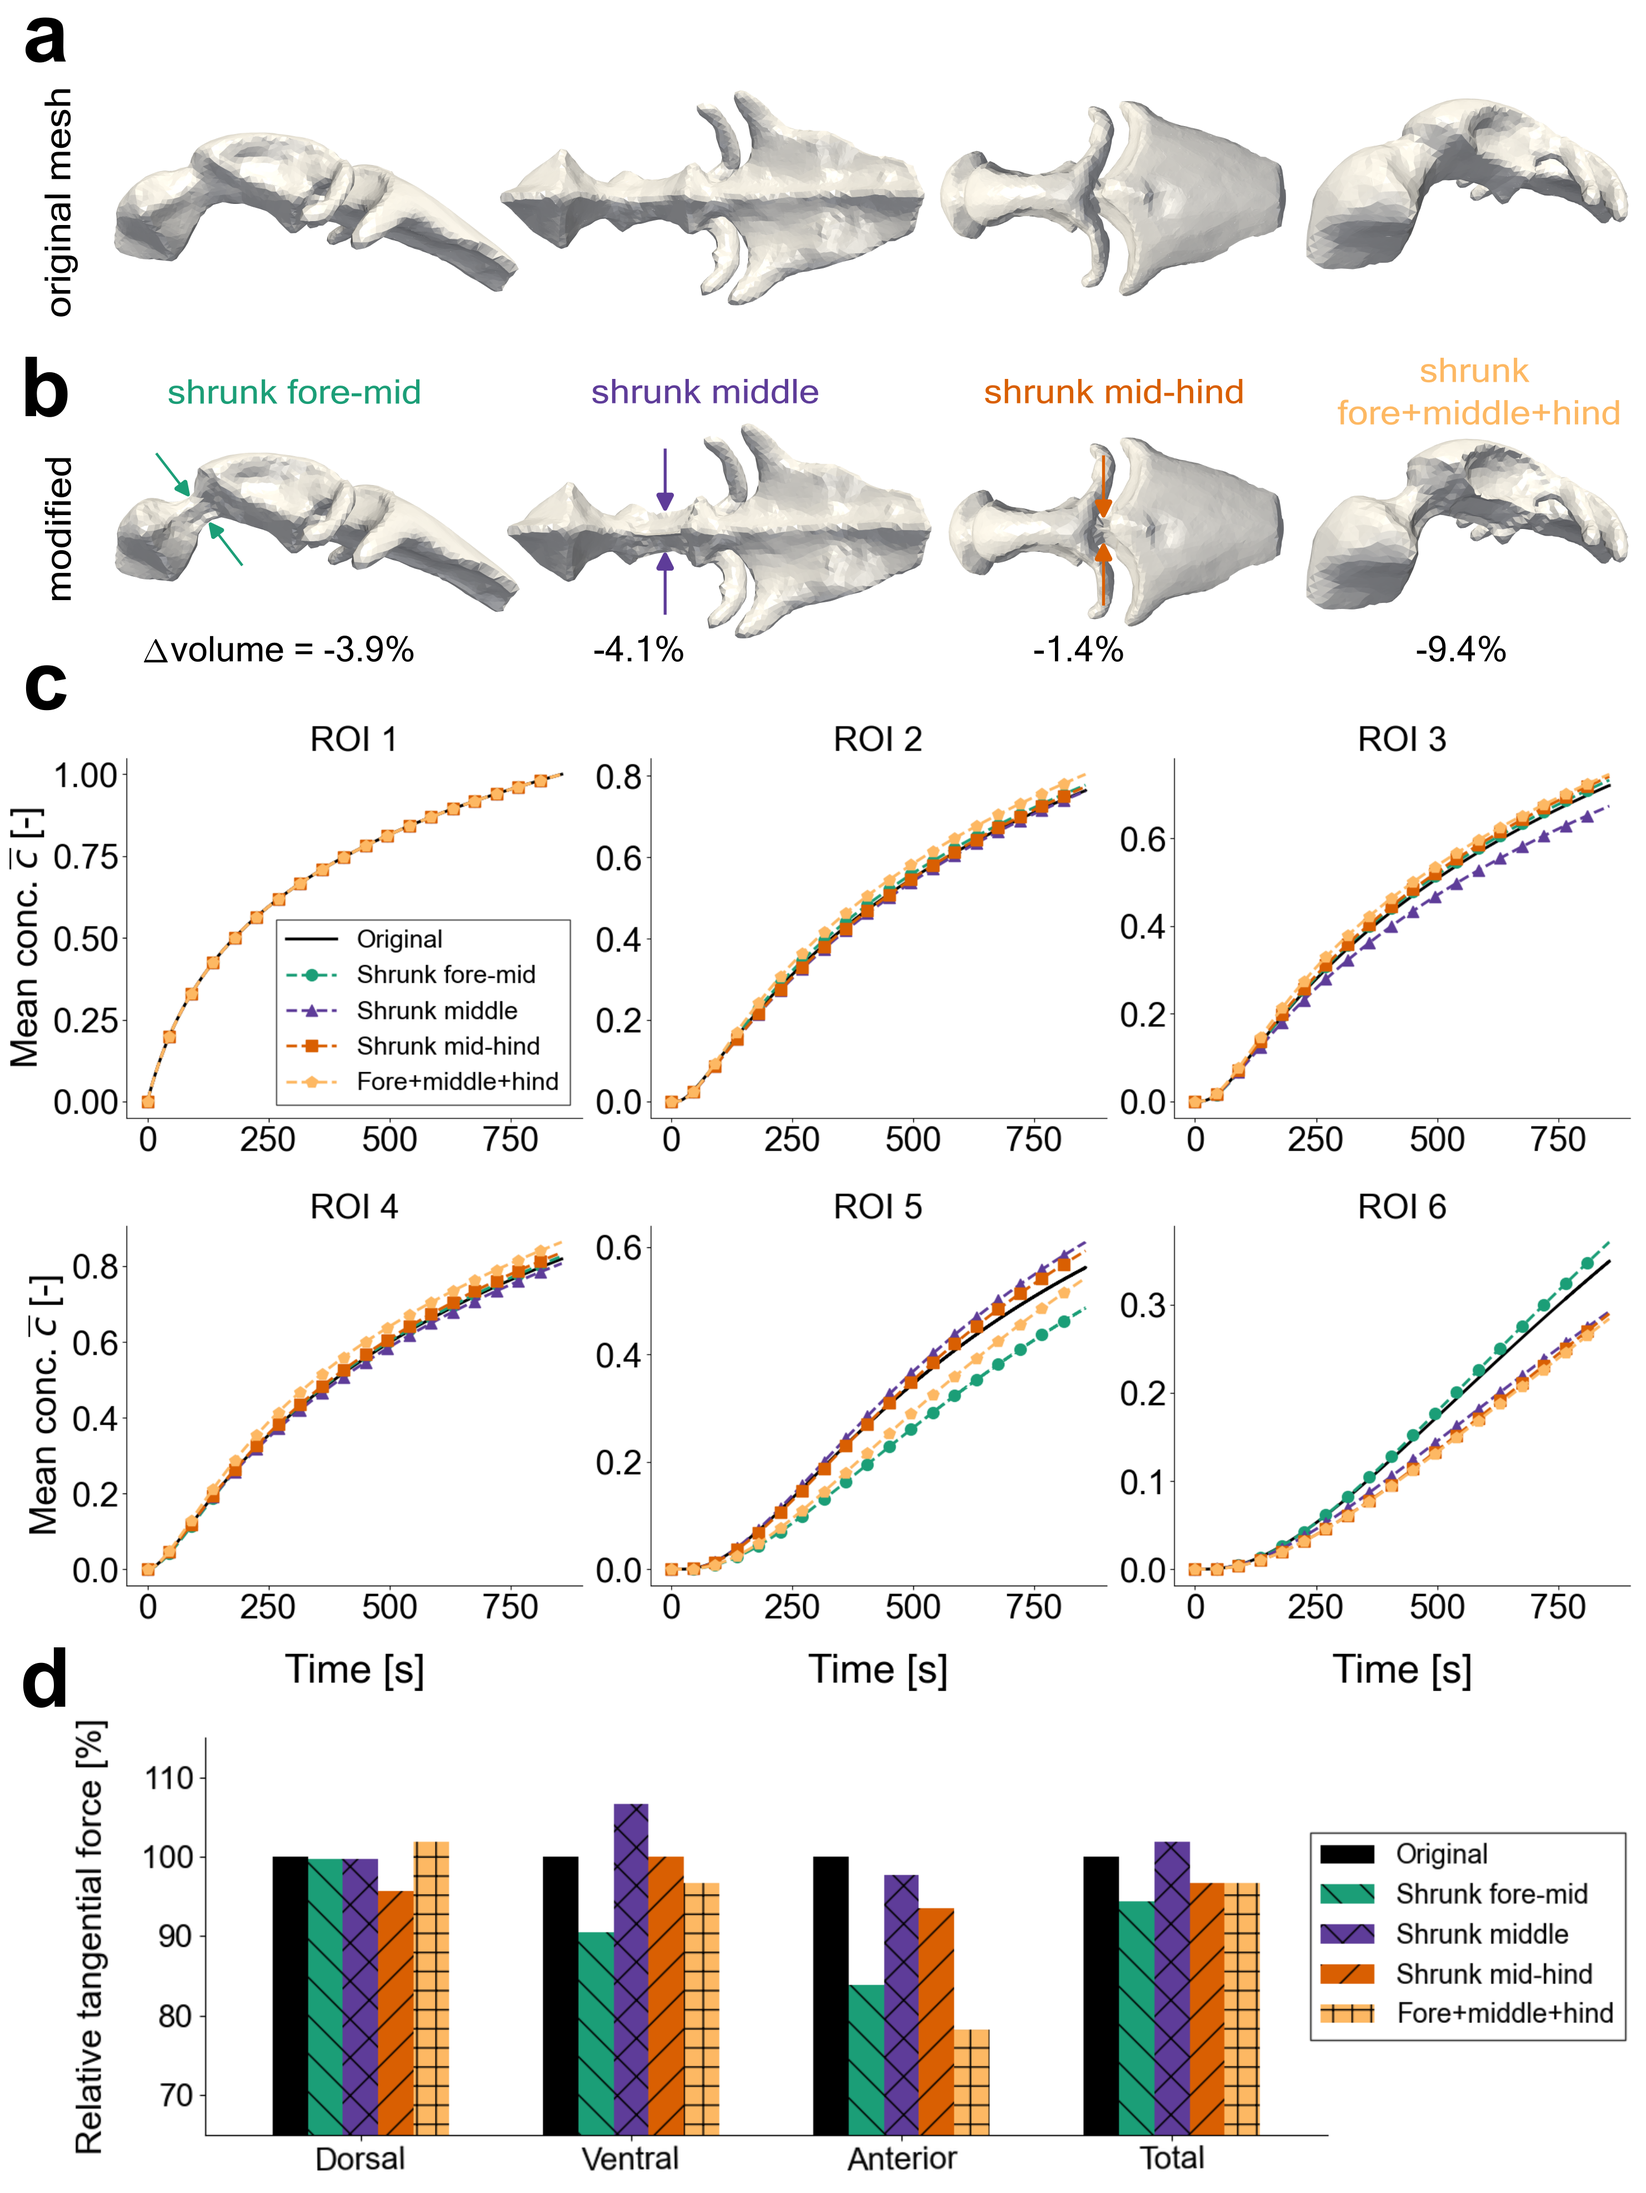
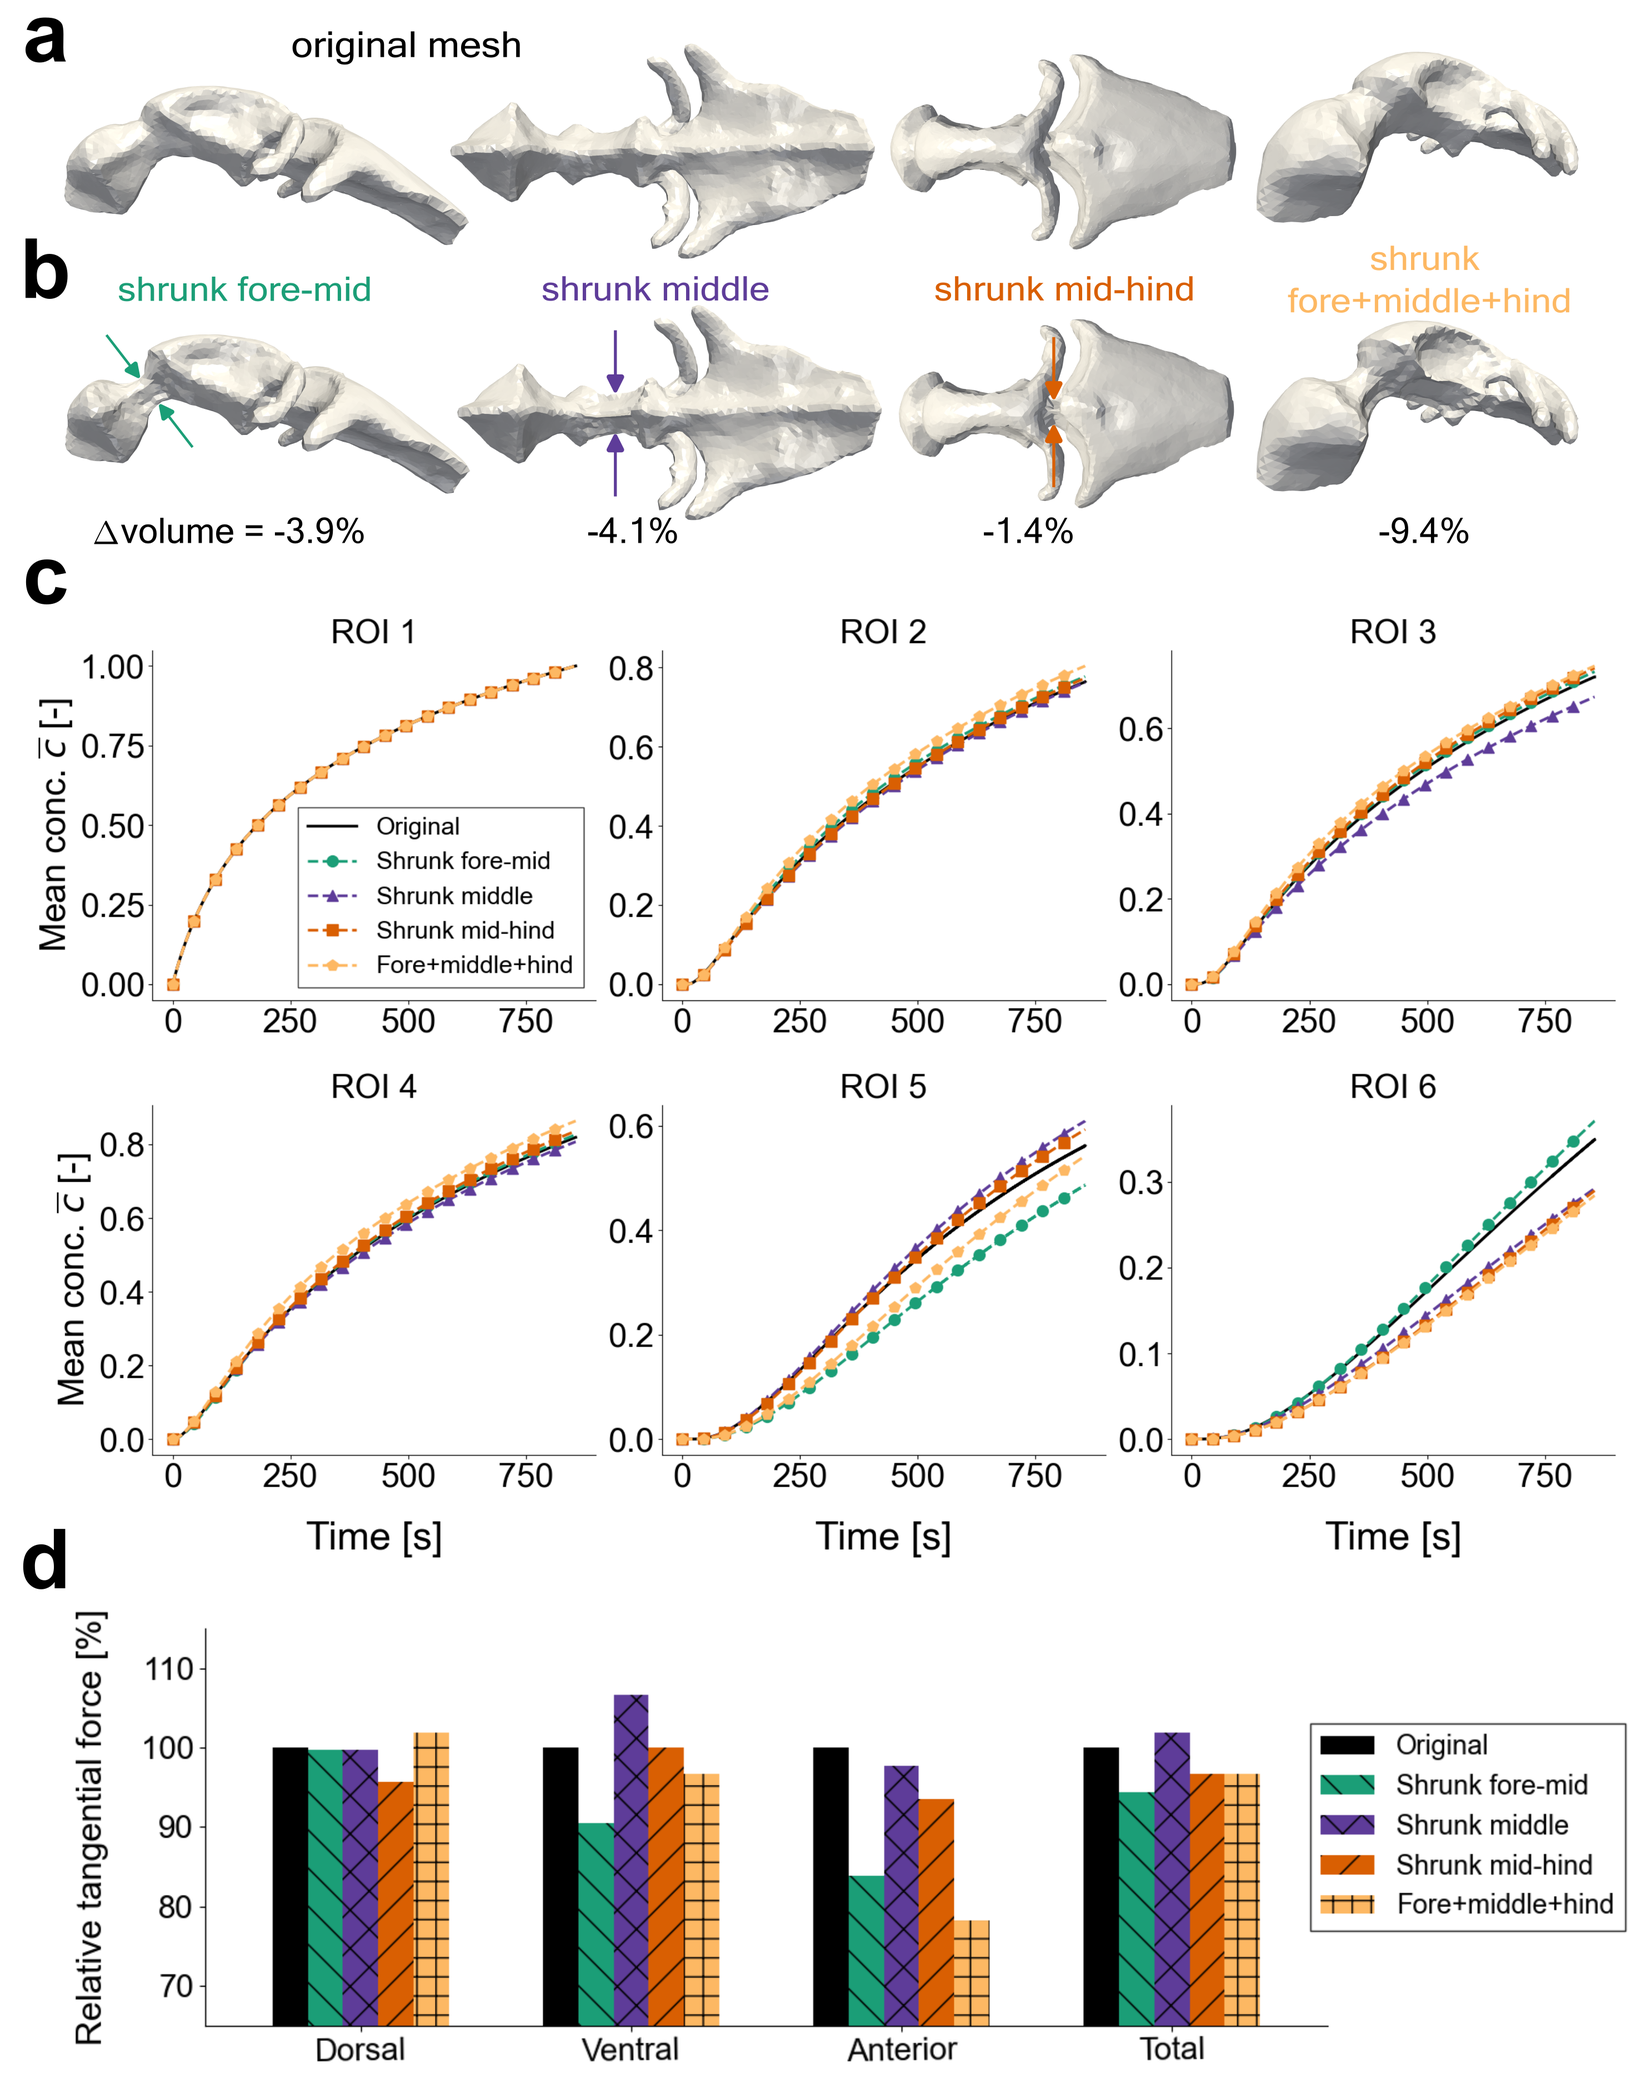
update figures, add force calculation

diff --git a/paper/main.tex b/paper/main.tex
@@ -419,6 +419,14 @@ we also compute the Reynolds number
 \end{equation*}
 with $L_r$ and $U_r$ as length and velocity scales characteristic of the flow. 
 
+When studying how cilia paralysis and ventricular morphology affect intraventricular
+flow and transport, we calculate the magnitude of a tangential force $F$ 
+exerted by the cilia on a part $\mathcal{S}\subset\Gc$ of the ventricular surface as:
+\begin{equation}
+    F = \int_{\mathcal{S}}\sqrt{\btau\cdot\btau}\,\mathrm ds.
+    \label{eq:tangential_force_calculation}
+\end{equation}
+
 %-----DISCRETIZATION AND MODEL IMPLEMENTATION-----%
 \subsection{Numerical approximation of the Stokes equations}
 The Stokes equations~\Cref{eq:stokes_eqs} are discretized with a finite element method
@@ -881,7 +889,7 @@ In vivo, these cilia generate the strongest flow at
 this developmental stage of the fish~\cite{Olstad2019CiliaryDevelopment}.
 In contrast, removing telencephalic and ventral diencephalic cilia has minimal
 impact and results in maximum speeds of 27.7 \textmu m/s or 27.2 \textmu m/s, respectively.
-Of the total tangential force exerted by the cilia, ventral cilia in the middle ventricle
+Of the total tangential forces exerted by the cilia, ventral cilia in the middle ventricle
 contribute with 34\%, while the dorsal cilia exert 52\% of the total tangential
 force~(\Crefpanels{fig:fig5}{b}). The magnitude of the force contributions are thus
 more similar than the difference in their impact on the maximum velocity magnitudes.
@@ -902,8 +910,9 @@ less solute spreads towards the posterior ventricle (ROI 6).
     \includegraphics[width=\textwidth]{graphics/figure5_compare_cilia_modifications.png}
     \caption{\textbf{a.} The three separate ciliated regions cilia paralysis is simulated
     by imposing a zero tangential traction boundary condition in the respective region.
-    \textbf{b.} The total tangential force applied through the tangential traction
-    boundary condition in the three separate ciliated regions.
+    \textbf{b.} The total tangential force applied with the tangential traction
+    boundary condition in the three separate ciliated regions, as well as the total
+    (the sum of the three regions), calculated with \Cref{eq:tangential_force_calculation}. 
     \textbf{c.} Mean concentration $\cbar(t)$ for the six regions of interest (ROIs) in the three 
     paralysis scenarios considered. The region named in the legend is the region
     where we modify the cilia tangential traction boundary condition to a free-slip condition
@@ -920,26 +929,37 @@ one where the duct connecting the anterior and middle ventricles is constricted
 one where the duct connecting the middle and posterior ventricles is constricted
 (33 \% reduction);
 one where the middle ventricle is shrunk in the lateral direction (43 \% reduction);
-and the combination of the above three modifications (\Crefpanels{fig:fig6}{a}).
+and the combination of the above three modifications (\Crefpanels{fig:fig6}{a}). In these
+four modified geometries the volume is reduced by 3.9\%, 4.1\%, 1.4\% and 9.4\%, respectively,
+comapred to the original geometry.
 We simulate CSF flow in the modified geometries with the baseline flow model
 and use the resulting velocity field to simulate transport of Dendra2
 (\Crefpanels{fig:fig6}{b}).
 
 Constricting the connection between the anterior and middle ventricle leads to
 slower transport to the anterior ventricle (ROI 5),
-and a slightly higher mean concentration in ROIs 2--4 and 6, compared to the original geometry.
+and a slightly higher mean concentration in ROIs 2--4 and 6, compared to the original geometry
+(\Crefpanels{fig:fig6}{c}, shrunk fore-mid scenario). This is notwithstanding a
+9.5\% reduction in ventral cilia force magnitude
+(\Crefpanels{fig:fig6}{d}), which are the cilia that propel CSF and solute towards ROI 6.
 On the other hand, constricting the duct connecting the middle and the posterior ventricle
 leads to less transport into the posterior ventricle (ROI 6),
-and slightly more transport towards the anterior ventricle (ROI 5).
+and slightly more transport towards the anterior ventricle (ROI 5)
+(\Crefpanels{fig:fig6}{c}, shrunk mid-hind scenario).
 Faster transport to the anterior ventricle (ROI 5) and slower transport to the
-posterior ventricle (ROI 6) is also the case for the geometry with a shrunk middle ventricle.
-Additionally, for the latter configuration, the transport upstream of CSF flow towards the
+posterior ventricle (ROI 6) is also the case for the geometry with a
+shrunk middle ventricle.
+Here also the change in transport to ROI 6 is counter to expectation when comparing with
+ventral cilia forces, with transport reducing in spite of a 6.6\% increase in the
+ventral cilia forces.
+Additionally, for the shrunk middle configuration, the transport upstream of CSF flow towards the
 ventral-posterior region of the middle ventricle (ROI 3) is slowed down.
 For the mesh where all three ventricles are modified,
 we observe higher retention of solute in the middle ventricle (ROIs 2--4),
 while both the anterior and the posterior ventricles (ROIs 5 and 6) have lower mean concentrations.
 Altogether, our results show that the geometry and width of the ventricular ducts matter
-for solute transport. This may explain why we observed larger differences
+for solute transport, with notable differences in transport from relatively small
+geometry modifications. This may explain why we observed larger differences
 in the cilia-deficient computational model compared to the experimental data in
 \Cref{fig:fig4}, as the model and the fish have different duct diameters.
 \begin{figure}[H]
@@ -952,10 +972,12 @@ in the cilia-deficient computational model compared to the experimental data in
     \textbf{c.} Mean concentration $\cbar(t)$ simulated with the original and modified geometries
     in the 6 ROIs.
     \textbf{d.} A comparison of the tangential cilia force in the three cilia regions
-    and the total force applied. In each region, the force $F_{\mathrm{original}}$ 
+    and the total force applied, calculated with \Cref{eq:tangential_force_calculation}.
+    In each region, the force $F_{\mathrm{original}}$ 
     applied on the original mesh is the baseline of 100\%,
-    to which the force $F_i$ of the other mesh versions are compared, where $i$ denotes
-    the case. The bars for the four shrunk scenarios thus
+    to which the forces $F_i$ of the other mesh versions are compared, where $i$ denotes
+    the cases fore-shrunk, middle shrunk, mid-hind shrunk, and the combination of the three.
+    The bars for the four shrunk scenarios thus
     display $F_i/F_{\mathrm{original}}\cdot 100\%$.}
     \label{fig:fig6}
 \end{figure}
@@ -1357,14 +1379,16 @@ We are also confident that our model can be adjusted and implemented to fit
 microscopic and macroscopic parameters for larger brains, once these parameters are acquired.
 
 \subsection{Limitations and further work}
-The model presented has certain limitations. Future work could consider:
+The model presented has certain limitations. Future work could consider improving:
 \begin{itemize}
+    \item quantify cilia force parameter to avoid tuning
     \item spatial heterogeneity of the cilia, how this affects flow and transport
     \item time-varying cilia?
     \item improved advection-diffusion equation influx/outflux BCs, or instead
     modeling deformation of a closed ventricular system. 
     and investigating how the arising flow compares with pulsatile flow observed in experiments
     \item FSI: CSF flow coupled to 1D/2D/3D cilia structures.
+    \item any comments on experiments?
 \end{itemize}
 
 \section{Conclusion}
@@ -1388,6 +1412,14 @@ Experimental results support the conclusion that cilia only affect the
 local distribution of small proteins,
 while most of their transport is governed by diffusion. 
 
+% Acknowledgements
+\medskip
+\textbf{Acknowledgements} \par 
+Thanks are extended to J\o rgen Dokken for valuable model implementation discussions.
+Halvor Herlyng acknowledges support from the national infrastructure for computational
+science in Norway, Sigma2, via grant \#NN8049K.
+This work was funded by the Research Council of Norway (NJY FRIPRO grants 314189 and 353348).
+
 \medskip
 \textbf{Data Availability Statement} \par
 The data and implementations presented in this paper are licensed under \fixme{LICENSE}
@@ -1405,13 +1437,6 @@ The authors declare no conflicts of interest.
 Supporting Information is available from the Wiley Online Library or from the author.
 
 
-% Acknowledgements
-\medskip
-\textbf{Acknowledgements} \par 
-Thanks are extended to J\o rgen Dokken for valuable model implementation discussions.
-Halvor Herlyng acknowledges support from the national infrastructure for computational
-science in Norway, Sigma2, via grant \#NN8049K.
-This work was funded by the Research Council of Norway (NJY FRIPRO grants 314189 and 353348).
 
 
 
